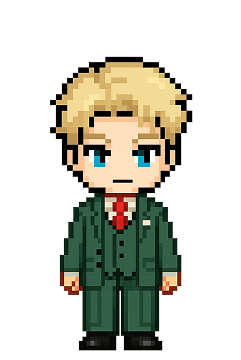
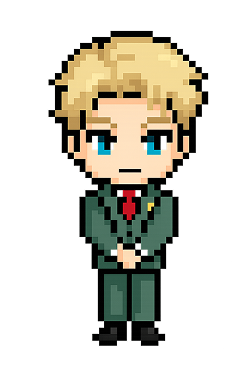
[REFACTOR] 디렉토리 구조 리팩토링

diff --git a/lib/screens/avatar/home.dart b/lib/screens/avatar/home.dart
@@ -2,9 +2,9 @@ import 'package:flutter/material.dart';
 import 'package:get/get.dart';
 import 'package:intl/intl.dart';
 
-import '../screens/avatar.dart';
-import '../screens/map.dart';
-import '../controllers/navigation_controller.dart';
+import 'avatar.dart';
+import '../map/map.dart';
+import '../../controllers/navigation_controller.dart';
 
 void main() {
   runApp(const Home());
@@ -87,12 +87,14 @@ class HomePage extends StatelessWidget {
 
       body: Stack(
         children: [
-          Positioned.fill(
+          Obx(() => Positioned.fill(
             child: Image.asset(
-              'assets/images/background_basic.png',
+              controller.isModalOpen.value
+                ? 'assets/images/bg_boutique.png'
+                : 'assets/images/bg_basic.png',
               fit: BoxFit.cover,
             ),
-          ),
+          )),
 
 
           Row(
@@ -120,95 +122,109 @@ class HomePage extends StatelessWidget {
             ],
           ),
 
-          Align(
-            alignment: Alignment.bottomCenter,
-            child: Padding(
-              padding: const EdgeInsets.all(8.0),
-              child: Row(
-                mainAxisAlignment: MainAxisAlignment.center,
-                children: [
-                  SizedBox(
-                    width: 110,
-                    child: ElevatedButton(
-                      style: ElevatedButton.styleFrom(
-                        backgroundColor: const Color(0xff69BF70),
-                        foregroundColor: Colors.white,
-                      ),
-                      onPressed: () {
-                        showModalBottomSheet(
+          Obx(() => AnimatedPositioned(
+            duration: const Duration(milliseconds: 200),
+            curve: Curves.easeOut,
+            bottom: controller.isModalOpen.value ? 250 : 20,
+            left: 0,
+            right: 0,
+            child: Row(
+              mainAxisAlignment: MainAxisAlignment.center,
+              children: [
+                SizedBox(
+                  width: 110,
+                  child: ElevatedButton(
+                    style: ElevatedButton.styleFrom(
+                      backgroundColor: const Color(0xff69BF70),
+                      foregroundColor: Colors.white,
+                    ),
+                    onPressed: () async {
+                      if (controller.isModalOpen.value) {
+                        Navigator.pop(context);
+                      } else {
+                        controller.setModalOpen(true);
+                        await showModalBottomSheet(
                           context: context,
+                          useRootNavigator: true,
+                          isScrollControlled: true,
+                          barrierColor: Colors.transparent,
                           shape: const RoundedRectangleBorder(
                             borderRadius: BorderRadius.vertical(top: Radius.circular(20)),
                           ),
-                          backgroundColor: Colors.white,
+                          backgroundColor: const Color(0xffBFEAC2),
                           builder: (context) {
-                            return const Padding(
-                              padding: EdgeInsets.all(20),
-                              child: SizedBox(
-                                height: 300,
-                              ),
+                            return const SizedBox(
+                              height: 300,
+                              width: double.infinity,
                             );
                           },
-                        );
-                      },
-                      child: const Padding(
-                        padding: EdgeInsets.only(top: 5),
-                        child: Text(
-                          '상점',
-                          style: TextStyle(
-                            fontFamily: 'BlackHanSans-Regular',
-                            fontSize: 20,
-                          ),
+                        ).whenComplete(() {
+                          controller.setModalOpen(false);
+                        });
+                      }
+                    },
+                    child: const Padding(
+                      padding: EdgeInsets.only(top: 5),
+                      child: Text(
+                        '상점',
+                        style: TextStyle(
+                          fontFamily: 'BlackHanSans-Regular',
+                          fontSize: 20,
                         ),
                       ),
                     ),
                   ),
+                ),
 
-                  const SizedBox(width: 20),
+                const SizedBox(width: 20),
 
-                  SizedBox(
-                    width: 120,
-                    child: ElevatedButton(
-                      style: ElevatedButton.styleFrom(
-                        backgroundColor: const Color(0xff69BF70),
-                        foregroundColor: Colors.white,
-                      ),
-                      onPressed: () {
-                        showModalBottomSheet(
+                SizedBox(
+                  width: 120,
+                  child: ElevatedButton(
+                    style: ElevatedButton.styleFrom(
+                      backgroundColor: const Color(0xff69BF70),
+                      foregroundColor: Colors.white,
+                    ),
+                    onPressed: () async {
+                      if (controller.isModalOpen.value) {
+                        Navigator.pop(context);
+                      } else {
+                        controller.setModalOpen(true);
+                        await showModalBottomSheet(
                           context: context,
+                          useRootNavigator: true,
+                          isScrollControlled: true,
+                          barrierColor: Colors.transparent,
                           shape: const RoundedRectangleBorder(
                             borderRadius: BorderRadius.vertical(top: Radius.circular(20)),
                           ),
-                          backgroundColor: Colors.white,
+                          backgroundColor: const Color(0xffBFEAC2),
                           builder: (context) {
-                            return const SafeArea(
-                              child: Padding(
-                                padding: EdgeInsets.all(0),
-                                child: SizedBox(
-                                  height: 300,
-                                  width: 500,
-                                ),
-                              ),
+                            return const SizedBox(
+                              height: 300,
+                              width: double.infinity,
                             );
                           },
-                        );
-                      },
-                      child: const Padding(
-                        padding: EdgeInsets.only(top: 5),
-                        child: Text(
-                          '인벤토리',
-                          style: TextStyle(
-                            fontFamily: 'BlackHanSans-Regular',
-                            fontSize: 20,
-                          ),
+                        ).whenComplete(() {
+                          controller.setModalOpen(false);
+                        });
+                      }
+                    },
+                    child: const Padding(
+                      padding: EdgeInsets.only(top: 5),
+                      child: Text(
+                        '인벤토리',
+                        style: TextStyle(
+                          fontFamily: 'BlackHanSans-Regular',
+                          fontSize: 20,
                         ),
                       ),
                     ),
                   ),
-                ],
-              ),
+                ),
+              ],
             ),
-          ),
+          )),
 
           Obx(() => IndexedStack(
             index: controller.selectedIndex.value,

diff --git a/lib/screens/login/login.dart b/lib/screens/login/login.dart
@@ -1,6 +1,6 @@
-import 'package:doki/screens/home.dart';
-import 'package:doki/screens/password.dart';
-import 'package:doki/screens/register.dart';
+import 'package:doki/screens/avatar/home.dart';
+import 'package:doki/screens/login/password.dart';
+import 'package:doki/screens/login/register.dart';
 import 'package:flutter/material.dart';
 import 'package:doki/services/api_service.dart';
 import 'package:flutter_secure_storage/flutter_secure_storage.dart';

diff --git a/lib/screens/avatar/avatar.dart b/lib/screens/avatar/avatar.dart
@@ -1,18 +1,12 @@
 import 'package:flutter/material.dart';
-import 'package:get/get.dart';
-import 'package:doki/screens/map.dart';
-
-import '../controllers/navigation_controller.dart';
 
 class AvatarPage extends StatelessWidget {
   const AvatarPage({super.key});
 
   @override
   Widget build(BuildContext context) {
-    return Center(
-      child: Text(
-        ''
-      ),
+    return Scaffold(
+
     );
   }
 }

diff --git a/lib/controllers/navigation_controller.dart b/lib/controllers/navigation_controller.dart
@@ -3,6 +3,12 @@ import 'package:get/get.dart';
 class NavigationController extends GetxController {
   var selectedIndex = 2.obs;
 
+  var isModalOpen = false.obs;
+
+  void setModalOpen(bool value) {
+    isModalOpen.value = value;
+  }
+
   void changeIndex(int index) {
     selectedIndex.value = index;
   }

diff --git a/lib/screens/login/start.dart b/lib/screens/login/start.dart
@@ -1,6 +1,6 @@
 import 'package:flutter/material.dart';
-import 'package:doki/screens/login.dart';
-import 'package:doki/screens/register.dart';
+import 'package:doki/screens/login/login.dart';
+import 'package:doki/screens/login/register.dart';
 
 void main() {
   runApp(const Start());

diff --git a/lib/screens/login/character.dart b/lib/screens/login/character.dart
@@ -1,4 +1,4 @@
-import 'package:doki/screens/start.dart';
+import 'package:doki/screens/login/start.dart';
 import 'package:flutter/material.dart';
 import 'package:doki/services/api_service.dart';
 

diff --git a/lib/screens/login/password.dart b/lib/screens/login/password.dart
@@ -1,4 +1,4 @@
-import 'package:doki/screens/start.dart';
+import 'package:doki/screens/login/start.dart';
 import 'package:doki/services/api_service.dart';
 import 'package:flutter/material.dart';
 

diff --git a/lib/main.dart b/lib/main.dart
@@ -1,4 +1,4 @@
-import 'package:doki/screens/start.dart';
+import 'package:doki/screens/login/start.dart';
 import 'package:flutter/material.dart';
 import 'package:get/get.dart';
 
